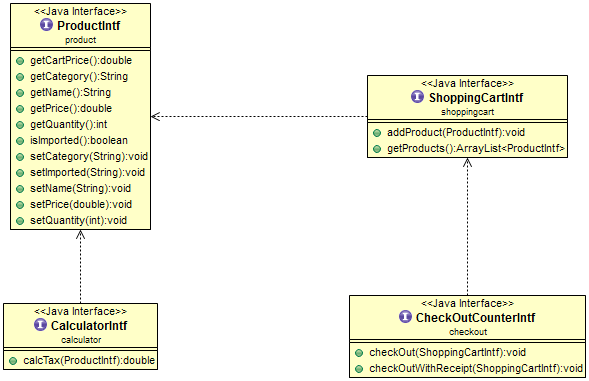
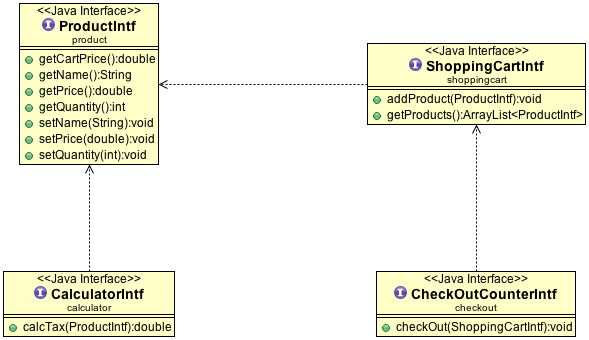
Further Cleanup
Re-Arranged input file location*

*might change again later.

Changed region(s): [[0.0, 0.0, 1.0, 0.6471], [0.5806, 0.7647, 1.0, 1.0], [0.0, 0.7941, 0.3056, 1.0]]

diff --git a/thoughtworks/src/calculator/Category.java b/thoughtworks/src/calculator/Category.java
@@ -1,51 +1,49 @@
 package calculator;
+
 import java.util.*;
 
 import product.ProductIntf;
 
-
 /**
  * @author Osaide Ogbeifun
- *
+ * 
  */
-public final class Category  {
-	
-	   private static final String IMPORTED_TOKEN = "imported";
-	 
-	     private static final List<String> EXEMPT_ITEMS_TOKENS = new ArrayList<String>();
-	    
-	     static {
-	         EXEMPT_ITEMS_TOKENS.add("book");
-	         EXEMPT_ITEMS_TOKENS.add("chocolate");
-	         EXEMPT_ITEMS_TOKENS.add("pills");
-	     }
+public final class Category {
+
+	private static final String IMPORTED_TOKEN = "imported";
+
+	private static final List<String> EXEMPT_ITEMS_TOKENS = new ArrayList<String>();
+
+	static {
+		EXEMPT_ITEMS_TOKENS.add("book");
+		EXEMPT_ITEMS_TOKENS.add("chocolate");
+		EXEMPT_ITEMS_TOKENS.add("pills");
+	}
+
 	/**
 	 * @param cat
 	 * @return boolean
 	 */
 	protected boolean checkCategory(ProductIntf item) {
-	     
-	  String itemName = item.getName().toLowerCase();
-	     
-		 for (String exemptToken : EXEMPT_ITEMS_TOKENS) {
-	            if (itemName.toLowerCase().contains(exemptToken)) {
-	            	return true;
-	            }
 
-	        }
+		String itemName = item.getName().toLowerCase();
+
+		for (String exemptToken : EXEMPT_ITEMS_TOKENS) {
+			if (itemName.toLowerCase().contains(exemptToken)) {
+				return true;
+			}
+
+		}
 		return false;
 	}
-	protected boolean checkImport(ProductIntf item) {
-	        // verify if the item is imported.
-			 String itemName = item.getName().toLowerCase();
-	        if (itemName.toLowerCase().contains(IMPORTED_TOKEN)) {
-	        	return true;
-	        }
-	        return false;
-		 }
 
-		// Search for element in list
-		//int index = Collections.binarySearch(list, item.getCategory().toLowerCase());
-	
+	protected boolean checkImport(ProductIntf item) {
+		// verify if the item is imported.
+		String itemName = item.getName().toLowerCase();
+		if (itemName.toLowerCase().contains(IMPORTED_TOKEN)) {
+			return true;
+		}
+		return false;
 	}
 
+}

diff --git a/thoughtworks/src/checkout/CheckOutCounter.java b/thoughtworks/src/checkout/CheckOutCounter.java
@@ -24,8 +24,7 @@ public class CheckOutCounter implements CheckOutCounterIntf {
 	 */
 	public void checkOut(ShoppingCartIntf cart) {
 		checkOutWithReceipt(cart);
-		
-	
+
 	}
 
 	/**
@@ -34,14 +33,14 @@ public class CheckOutCounter implements CheckOutCounterIntf {
 	protected void checkOutWithReceipt(ShoppingCartIntf cart) {
 		ArrayList<ProductIntf> products = cart.getProducts();
 		Printer printer = new Printer();
-		double tax = 0; 
+		double tax = 0;
 		System.out.println("Products");
 		resetCounter();
-		for (int i = 0; i < products.size(); i++) {
-			 tax =  calc.calcTax(products.get(i)) ;
+		for (ProductIntf product : products) {
+			tax = calc.calcTax(product);
 			addUpTax(tax);
-			addUpPrice(products.get(i).getCartPrice());
-			printer.printReceipt(products.get(i), tax);
+			addUpPrice(product.getCartPrice());
+			printer.printReceipt(product, tax);
 		}
 		printer.printTotal(getTax(), getTotalWithTax());
 	}
@@ -51,8 +50,8 @@ public class CheckOutCounter implements CheckOutCounterIntf {
 	 */
 	private void resetCounter() {
 
-		this.price =0;
-		this.totalTax=0;
+		this.price = 0;
+		this.totalTax = 0;
 	}
 
 	private double getTax() {
@@ -63,9 +62,7 @@ public class CheckOutCounter implements CheckOutCounterIntf {
 		return (totalTax + price);
 	}
 
-	
-
-	/** 
+	/**
 	 * @param price
 	 */
 	private void addUpPrice(double price) {

diff --git a/thoughtworks/src/store/SelectProduct.java b/thoughtworks/src/store/SelectProduct.java
@@ -5,26 +5,25 @@ import java.io.FileReader;
 import java.io.IOException;
 import java.util.ArrayList;
 
+/**
+ * @author Osaide Ogbeifun
+ *
+ */
 public class SelectProduct {
 
 	private FileReader fileReader;
 	private BufferedReader bufferedReader;
-	
-	
 
-
-
-	public ArrayList<String>  selectproducts(String filePath) throws IOException {		
+	public ArrayList<String> selectproducts(String filePath) throws IOException {
 		ArrayList<String> lineItems = new ArrayList<String>();
 		fileReader = new FileReader(filePath);
 		bufferedReader = new BufferedReader(fileReader);
 		String currentLine = null;
 		while ((currentLine = bufferedReader.readLine()) != null) {
 			lineItems.add(currentLine);
-						
-		}
-		return lineItems;		
-	}
 
+		}
+		return lineItems;
+	}
 
 }

diff --git a/thoughtworks/src/store/AddToShoppingCart.java b/thoughtworks/src/store/AddToShoppingCart.java
@@ -10,15 +10,13 @@ import product.ProductIntf;
 import product.ProductItem;
 import shoppingcart.ShoppingCart;
 import shoppingcart.ShoppingCartIntf;
-import checkout.CheckOutCounter;
-import checkout.CheckOutCounterIntf;
 
 /**
- * @author Picaso
+ * @author Osaide Ogbeifun
  * 
  */
 public class AddToShoppingCart {
-	CheckOutCounterIntf counter = new CheckOutCounter();
+
 	ShoppingCartIntf cart = new ShoppingCart();
 
 	public ShoppingCartIntf add(ArrayList<String> lineItemList) {
@@ -58,7 +56,7 @@ public class AddToShoppingCart {
 		// scan the price token an item line.
 		double price = 0;
 		if (scanner.hasNextFloat()) {
-			price = scanner.nextFloat();			
+			price = scanner.nextFloat();
 		}
 		product.setName(itemDescription);
 		product.setPrice(price);

diff --git a/thoughtworks/src/checkout/Printer.java b/thoughtworks/src/checkout/Printer.java
@@ -18,15 +18,15 @@ public final class Printer {
 	 */
 	protected void printReceipt(ProductIntf product, double tax) {
 
-		System.out.printf("%d %s: $%5.2f%n", product.getQuantity(),
+		System.out.printf("%d %s: %.2f%n", product.getQuantity(),
 				product.getName(),
 				product.getCartPrice() + tax);
 
 	}
 	
 	protected void printTotal(double tax, double total){
-		System.out.printf("Tax: $%5.2f%n", tax);
-		System.out.printf("Grand Total: $%5.2f%n \n", total);
+		System.out.printf("Sales Taxes: %.2f%n", tax);
+		System.out.printf("Total: %.2f%n \n", total);
 		
 	}
 }
